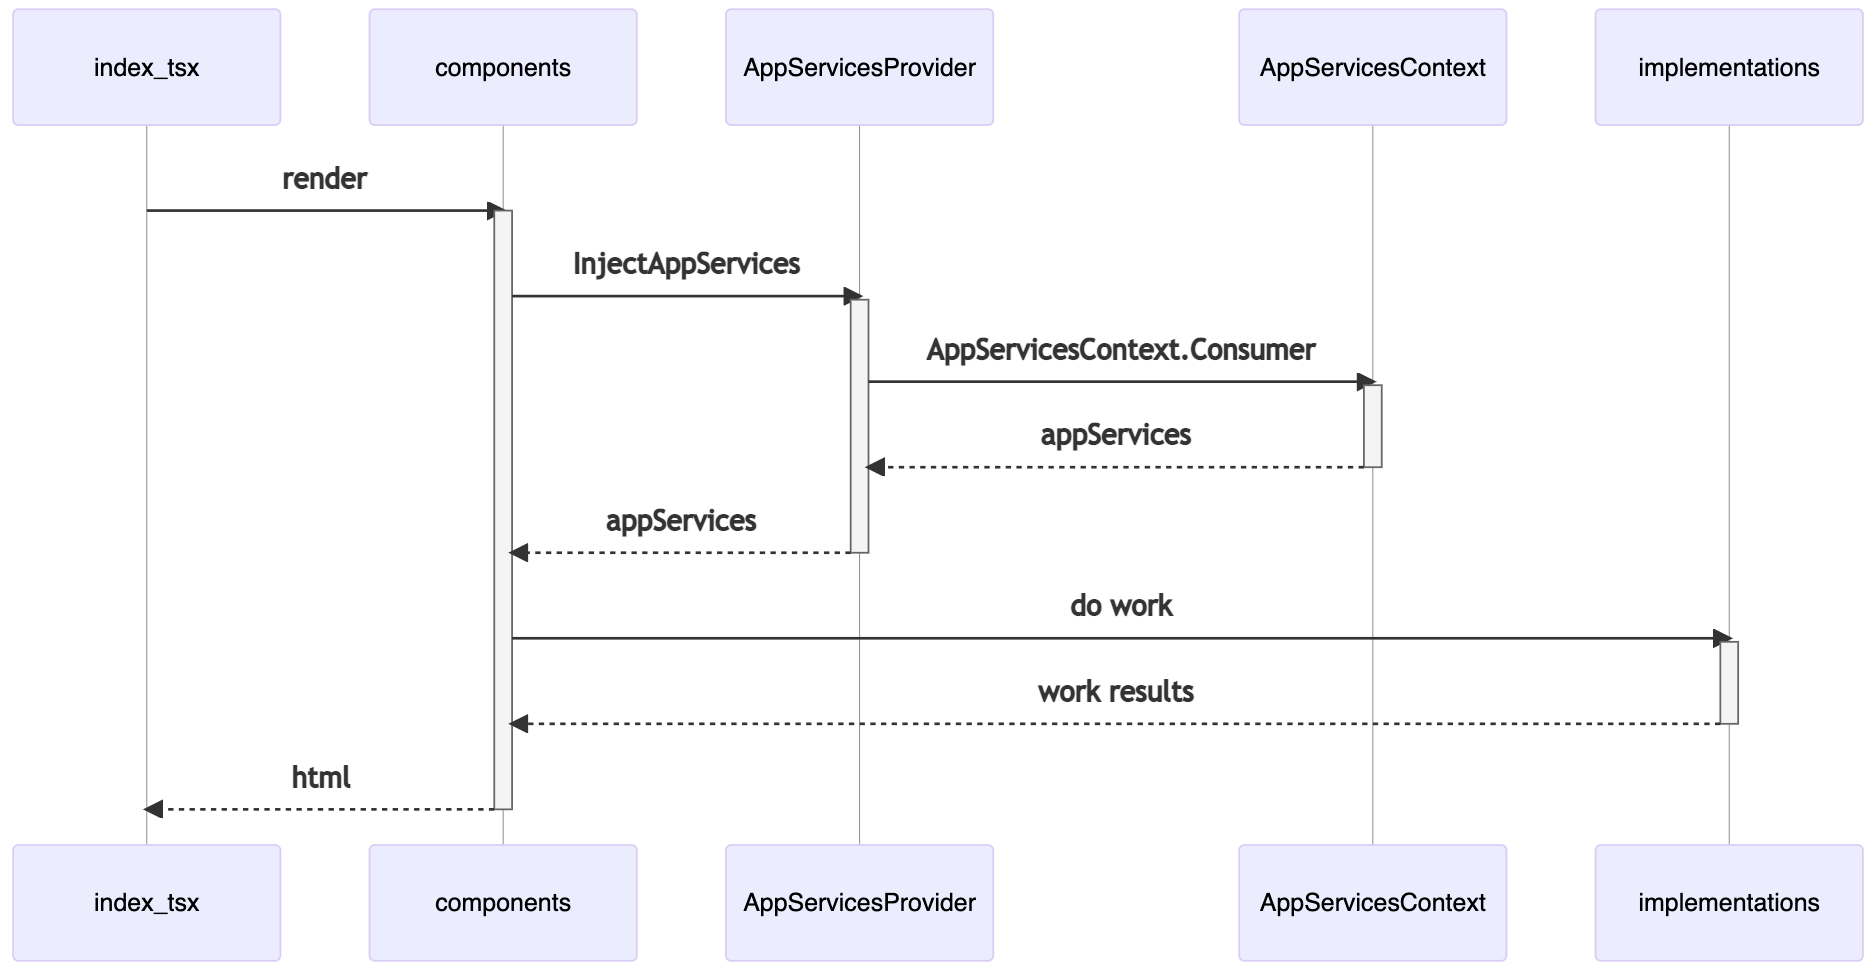
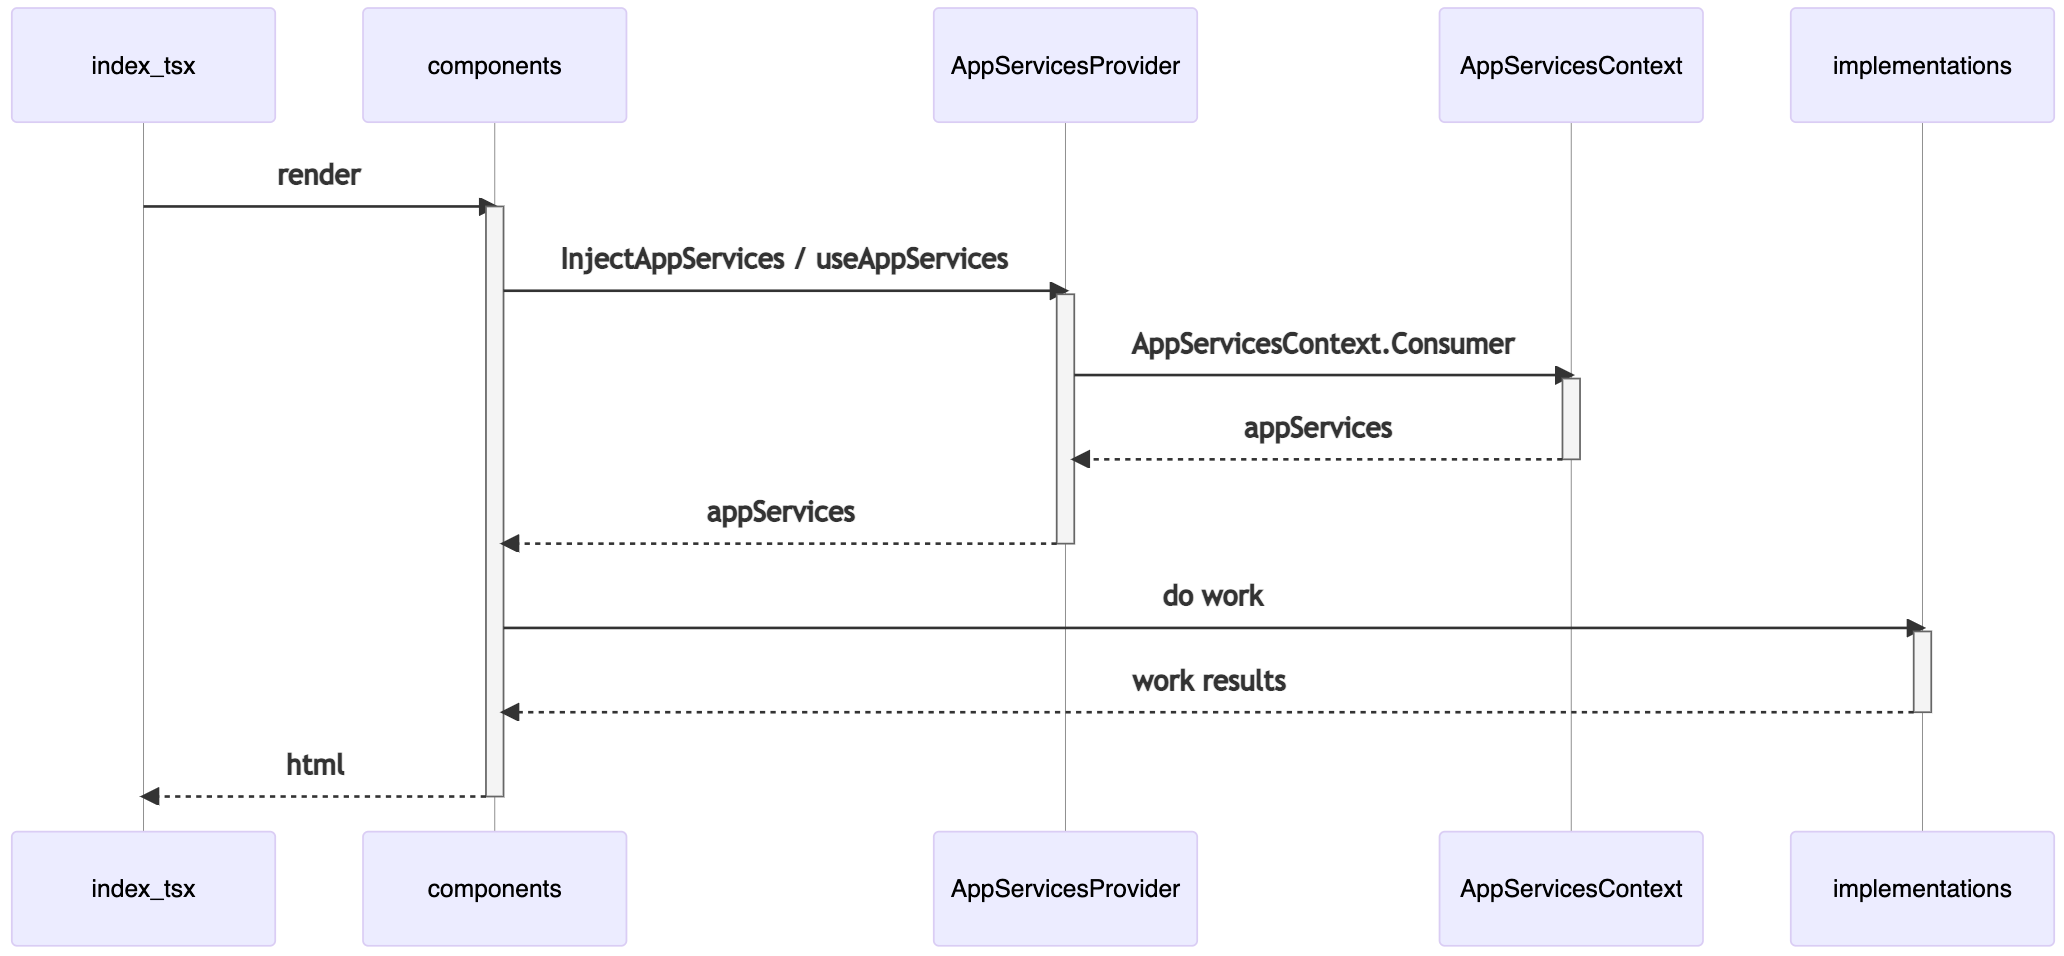
chore: add useAppServices hook

diff --git a/src/components/AppServicesContext.test.tsx b/src/components/AppServicesContext.test.tsx
@@ -1,5 +1,9 @@
 import { render, screen } from "@testing-library/react";
-import { AppServicesProvider, InjectAppServices } from "./AppServicesContext";
+import {
+  AppServicesProvider,
+  InjectAppServices,
+  useAppServices,
+} from "./AppServicesContext";
 import { AppConfiguration, AppServices } from "../abstractions";
 import { AppConfigurationRendererImplementation } from "../implementations/app-configuration-renderer";
 import {
@@ -114,5 +118,80 @@ describe(InjectAppServices.name, () => {
     expect(appConfigurationFactory).not.toHaveBeenCalled();
     const renderResult = screen.getByTestId(resultElementTestId);
     expect(renderResult).toBeEmptyDOMElement();
+  });
+});
+
+describe(useAppServices.name, () => {
+  const HookInjectedDemoComponent = () => {
+    const { appConfigurationRenderer } = useAppServices();
+    return (
+      <code>
+        <pre data-testid={resultElementTestId}>
+          {appConfigurationRenderer?.render()}
+        </pre>
+      </code>
+    );
+  };
+
+  it("should inject service with dependencies into a component and do not create other services", () => {
+    // Arrange
+    const {
+      appServices,
+      configurationAsJson,
+      windowFactory,
+      appConfigurationFactory,
+    } = buildTestScenario();
+
+    // Act
+    render(
+      <AppServicesProvider appServices={appServices}>
+        <HookInjectedDemoComponent />
+      </AppServicesProvider>
+    );
+
+    // Assert
+    const renderResult = screen.getByTestId(resultElementTestId);
+    expect(renderResult.textContent).toBe(configurationAsJson);
+    expect(windowFactory).not.toHaveBeenCalled();
+    expect(appConfigurationFactory).toHaveBeenCalled();
+  });
+
+  it("should not inject service defined in a different context", () => {
+    // Arrange
+    const { appServices, appConfigurationFactory } = buildTestScenario();
+
+    // Act
+    render(
+      <div>
+        <AppServicesProvider appServices={appServices}>
+          <div></div>
+        </AppServicesProvider>
+        <HookInjectedDemoComponent />
+      </div>
+    );
+
+    // Assert
+    const renderResult = screen.getByTestId(resultElementTestId);
+    expect(renderResult).toBeEmptyDOMElement();
+    expect(appConfigurationFactory).not.toHaveBeenCalled();
+  });
+
+  it("should NOT make honor to explicit injected appServices", () => {
+    // Arrange
+    const { appServices, appConfigurationFactory } = buildTestScenario();
+
+    // Act
+    render(
+      <div>
+        <AppServicesProvider appServices={appServices}>
+          <HookInjectedDemoComponent
+            {...({ appServices: {} as AppServices } as any)}
+          />
+        </AppServicesProvider>
+      </div>
+    );
+
+    // Assert
+    expect(appConfigurationFactory).toHaveBeenCalled();
   });
 });

diff --git a/src/components/AppServicesContext.tsx b/src/components/AppServicesContext.tsx
@@ -1,4 +1,4 @@
-import React, { createContext } from "react";
+import React, { createContext, useContext } from "react";
 
 import { AppServices } from "../abstractions";
 
@@ -34,3 +34,5 @@ export function InjectAppServices<
       </AppServicesContext.Consumer>
     );
 }
+
+export const useAppServices = () => useContext(AppServicesContext);

diff --git a/README.md b/README.md
@@ -62,7 +62,7 @@ Context.
 ```
 
 Then, [`AppServices`](./src/abstractions/services.ts) will be injected in the desired components using
-`InjectAppServices` HOC:
+`InjectAppServices` HOC or `useAppServices` hook:
 
 ![resolve app-services sequence diagram](./docs/resolve-app-services.png)
 
@@ -75,7 +75,7 @@ Then, [`AppServices`](./src/abstractions/services.ts) will be injected in the de
     participant implementations
 
     index_tsx->>+components: render
-    components->>+AppServicesProvider: InjectAppServices
+    components->>+AppServicesProvider: InjectAppServices / useAppServices
     AppServicesProvider->>+AppServicesContext: AppServicesContext.Consumer
     AppServicesContext-->>-AppServicesProvider: appServices
     AppServicesProvider-->>-components: appServices
